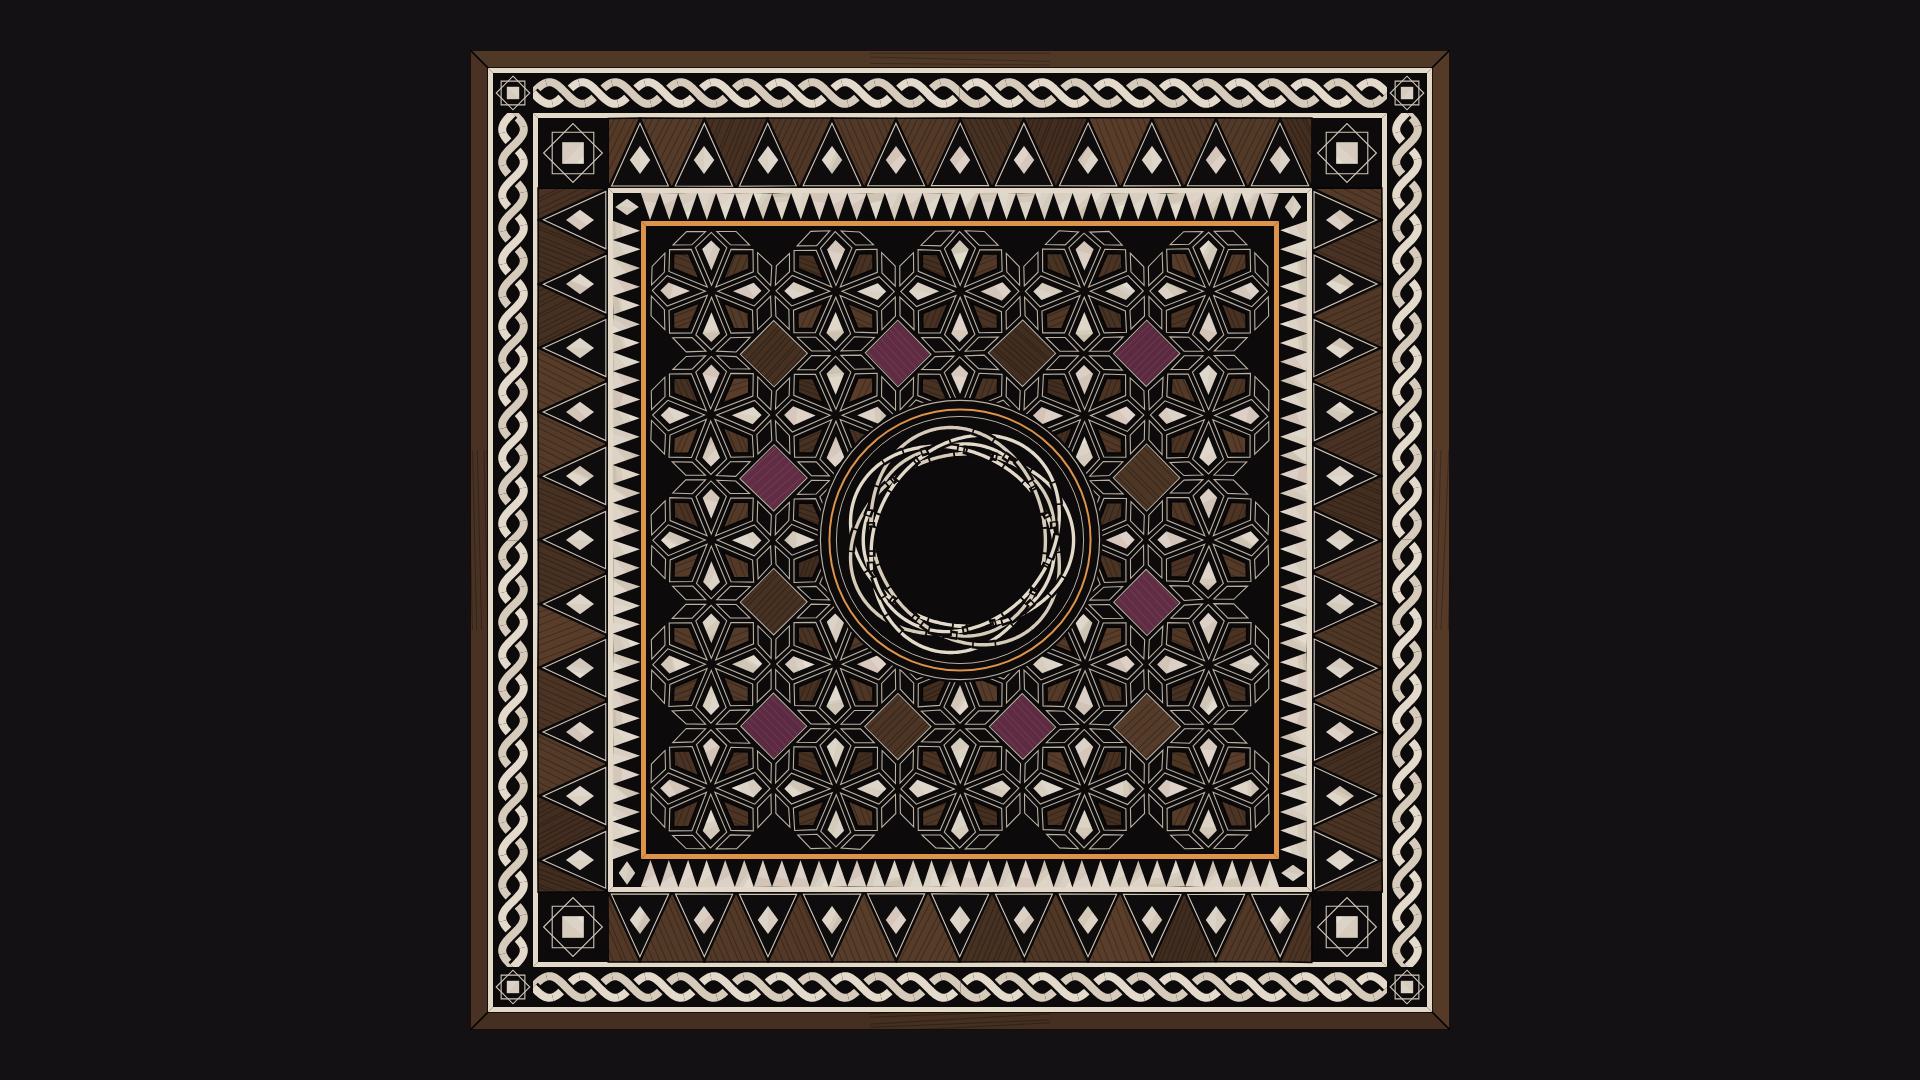
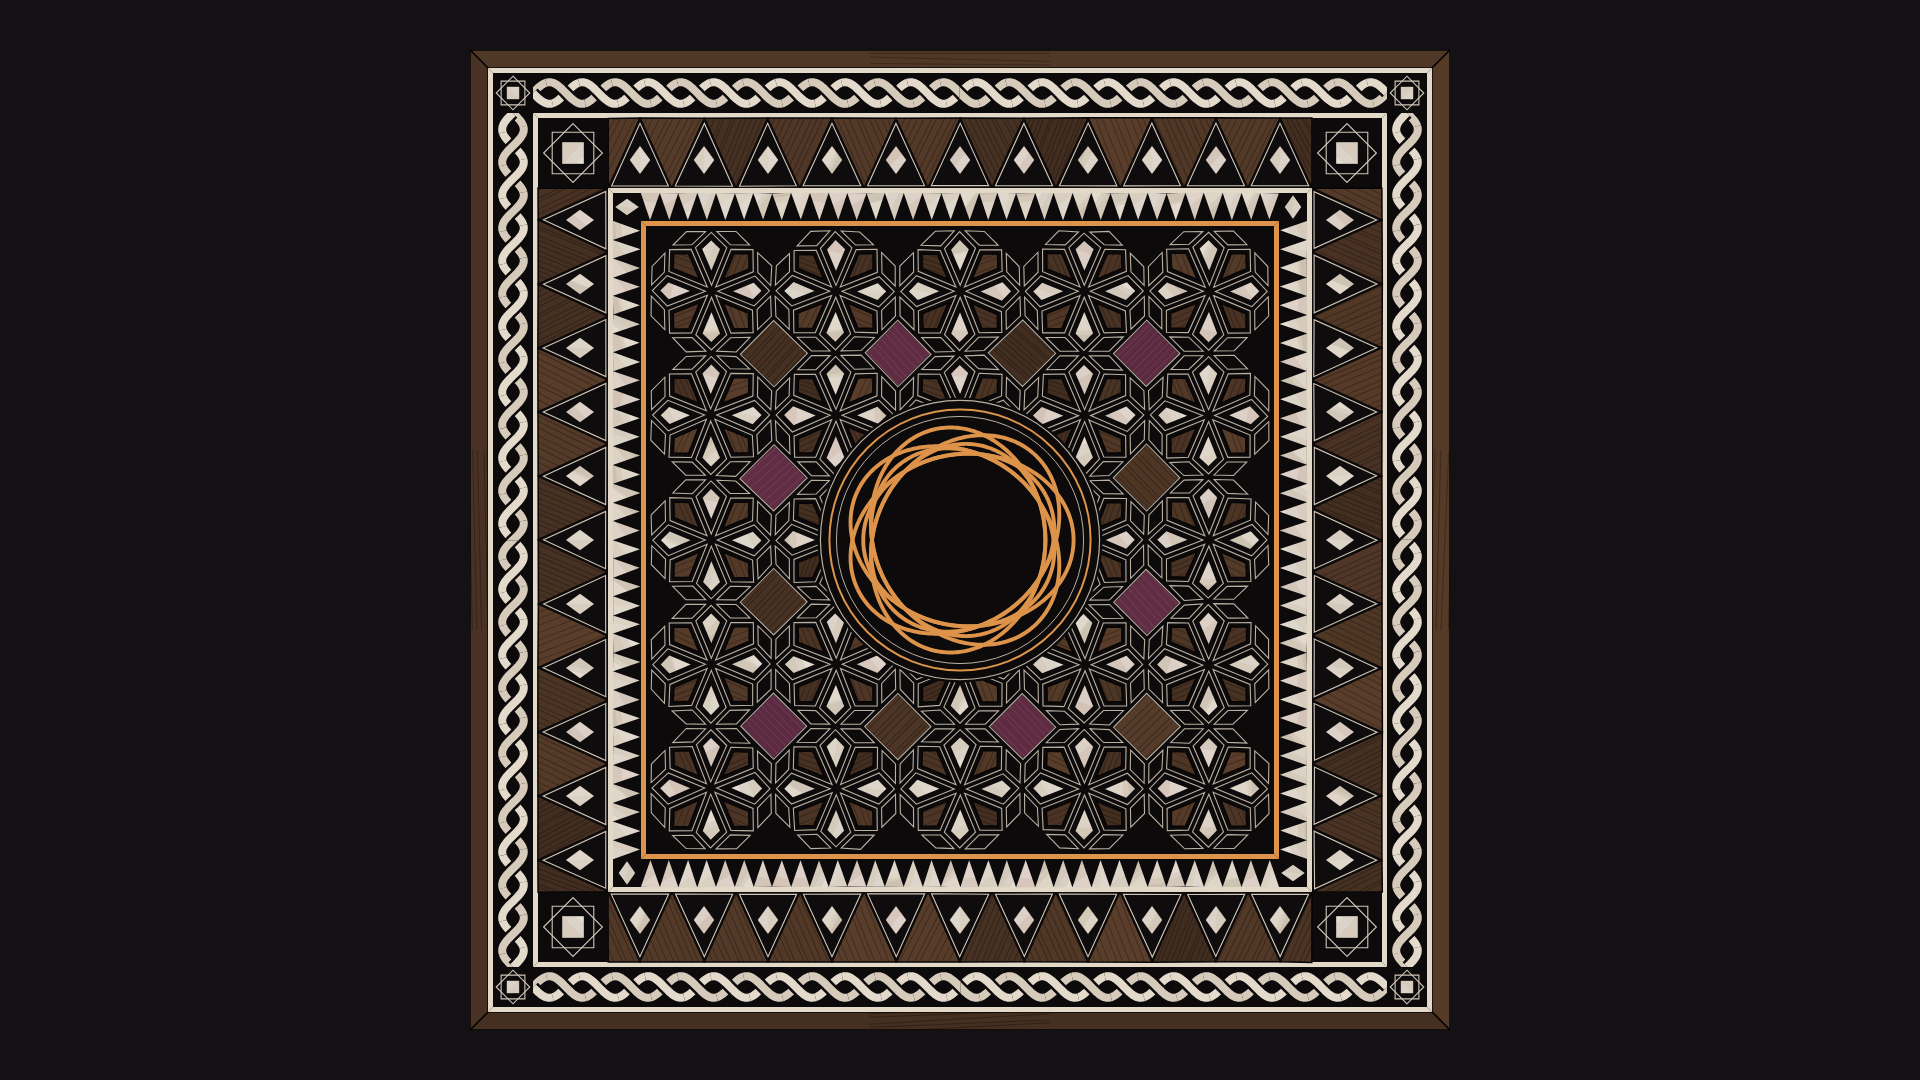
visuals: the mark as continuous loops (no cuts), colour option; board updated

Changed region(s): [[0.4375, 0.3972, 0.5625, 0.6111]]

diff --git a/visuals/samples-v2.html b/visuals/samples-v2.html
@@ -28,7 +28,7 @@
     var sc = (size * 0.40) / 108, n = window.Nest.build(0, 0, sc);
     if (ring) { ctx.strokeStyle = C.ambre; ctx.lineWidth = Math.max(1.5, size * 0.012); ctx.beginPath(); ctx.arc(0, 0, size * 0.455, 0, 2 * Math.PI); ctx.stroke(); }
     var small = size <= 64;
-    window.Nest.draw(ctx, n, { w: small ? Math.max(1.6, size * 0.075) : Math.max(1.8, size * 0.0165), gap: small ? 0 : Math.max(1.4, size * 0.011), ground: gapCol, cols: strands });
+    window.Nest.draw(ctx, n, { w: small ? Math.max(1.6, size * 0.075) : Math.max(1.8, size * 0.0165), weave: false, ground: gapCol, cols: strands });
     ctx.restore();
     return n;
   }
@@ -42,11 +42,11 @@
 
     // right, row 1: the mark
     var x = 1060, y = 40, s = 190, gap = 20;
-    var n1 = markOn(x, y, s, C.nuit, PEARLCOLS, C.nuit, true);
+    var n1 = markOn(x, y, s, C.nuit, ["#DD9349"], C.nuit, false);
     markOn(x + (s + gap), y, s, C.nuit, ["#F3EDE3"], C.nuit, false);
     markOn(x + 2 * (s + gap), y, s, "#F3EDE3", ["#131114"], "#F3EDE3", false);
-    label("B · La marque, vrai dessus-dessous : deux couleurs · une couleur · sur papier", 1060, 252);
-    label("croisements : " + n1.X.length + " · conflits de tissage : " + n1.conflicts, 1060, 272);
+    label("B · La marque, boucles continues, sans coupures : ambre · papier · sur papier", 1060, 252);
+    
     // small cuts for small sizes (no weave gaps, heavier stroke): real size, then enlarged 4x without smoothing
     var off = document.createElement("canvas");
     function small(sz, px, py, mag) {

diff --git a/visuals/lib/panel.js b/visuals/lib/panel.js
@@ -193,7 +193,7 @@
     } });
 
     // the roundel and the mark
-    var r = 2.1 * S, nest = g.Nest.build(0, 0, (r - 17) / 108), NW = { w: Math.max(2.2, r * 0.026), gap: Math.max(1.6, r * 0.02), ground: GROUND, cols: [PEARL, "#D6CBB9", PEARL, "#D6CBB9", PEARL, "#D6CBB9", PEARL] };
+    var r = 2.1 * S, nest = g.Nest.build(0, 0, (r - 17) / 108), NW = { w: Math.max(2.4, r * 0.03), weave: false, ground: GROUND, cols: [o.mark || "#DD9349"] };
     add({ layer: "disc", custom: true, draw: function (ctx, p) { if (MASK.on) return; ctx.save(); ctx.beginPath(); ctx.arc(0, 0, (r + 12) * p, 0, TAU); ctx.clip(); ctx.fillStyle = GROUND; ctx.fillRect(-r - 20, -r - 20, 2 * r + 40, 2 * r + 40); ctx.restore(); } });
     function ringArc(rad, col, w) { return function (ctx, p) { if (MASK.on || p <= 0) return; ctx.strokeStyle = col; ctx.lineWidth = w; ctx.beginPath(); ctx.arc(0, 0, rad, -Math.PI / 2, -Math.PI / 2 + TAU * p); ctx.stroke(); }; }
     add({ layer: "ring1", custom: true, draw: ringArc(r + 9, "#B9B0A2", 1.2) });

diff --git a/visuals/lib/nest.js b/visuals/lib/nest.js
@@ -65,6 +65,7 @@
       ctx.beginPath(); pts.forEach(function (p, k) { k ? ctx.lineTo(p[0], p[1]) : ctx.moveTo(p[0], p[1]); }); ctx.closePath();
       ctx.strokeStyle = o.cols[e % o.cols.length]; ctx.lineWidth = w; ctx.stroke();
     });
+    if (o.weave === false) return;                                  // the brand mark: continuous loops, no cuts
     nest.X.forEach(function (c) {
       var e = c.over, pos = e === c.a ? c.pa : c.pb, pts = nest.E[e];
       var arc = 2 * Math.PI * 91 * nest.sc / N, m = Math.ceil((w + 2 * gap) * 1.1 / arc) + 1;
@@ -87,6 +88,7 @@
       if (last < 1) return;
       trace(pts, 0, Math.min(N, last)); ctx.strokeStyle = o.cols[e % o.cols.length]; ctx.lineWidth = w; ctx.stroke();
     });
+    if (o.weave === false) return;
     nest.X.forEach(function (c) {
       var la = N * prog[c.a], lb = N * prog[c.b];
       if (c.pa > la || c.pb > lb) return;

diff --git a/visuals/panel-motion.html b/visuals/panel-motion.html
@@ -27,7 +27,8 @@
    Ease-out only. No glow, no particles, no spin, no text. Inspired by Damascene wood marquetry. */
 (function () {
   var W = 1920, H = 1080, FPS = 24, ctx = document.getElementById("c").getContext("2d");
-  var model = Panel.build(980, { seed: 1306, hand: 1.4 }), DURATION = model.duration;
+  var MARKS = { amber: "#DD9349", papier: "#F3EDE3" }, mk = new URLSearchParams(location.search).get("mark");
+  var model = Panel.build(980, { seed: 1306, hand: 1.4, mark: MARKS[mk] }), DURATION = model.duration;
   if (new URLSearchParams(location.search).get("t") === null) Panel.warm(model);          // bake finished looks before playing, so no frame hitches
   function drawFrame(t, live) {
     ctx.setTransform(1, 0, 0, 1, 0, 0); ctx.fillStyle = "#131114"; ctx.fillRect(0, 0, W, H);
